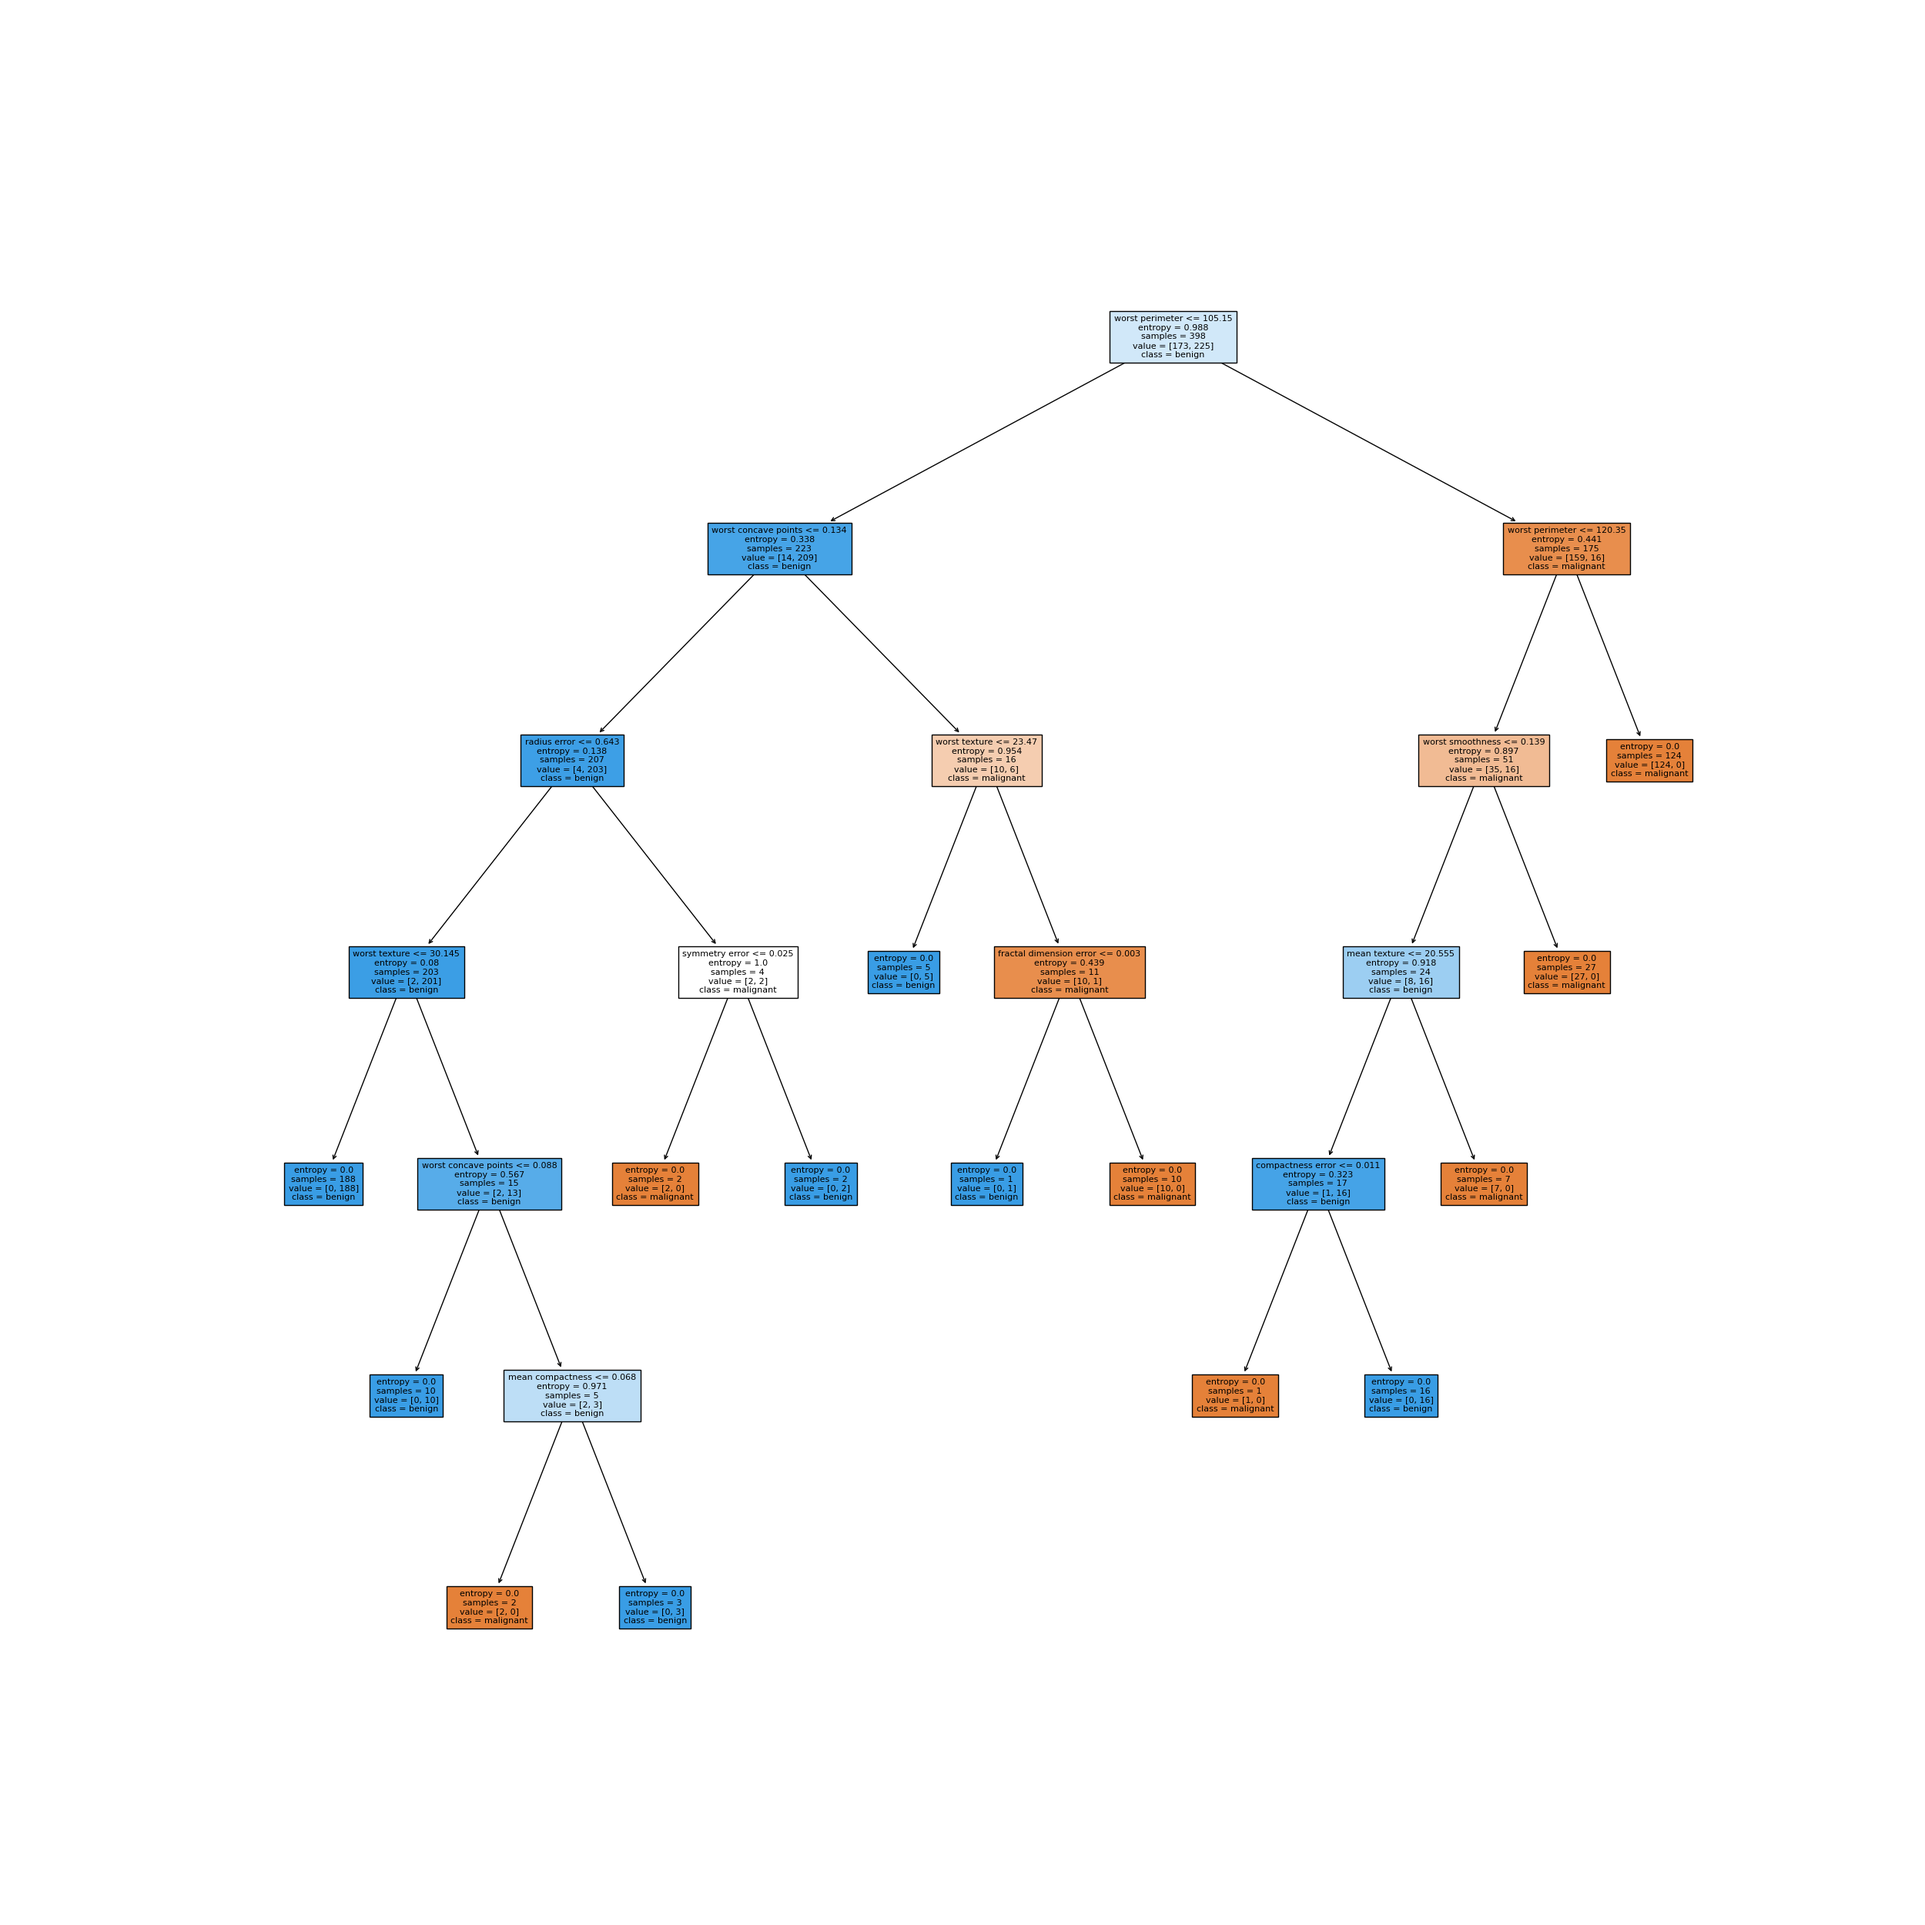
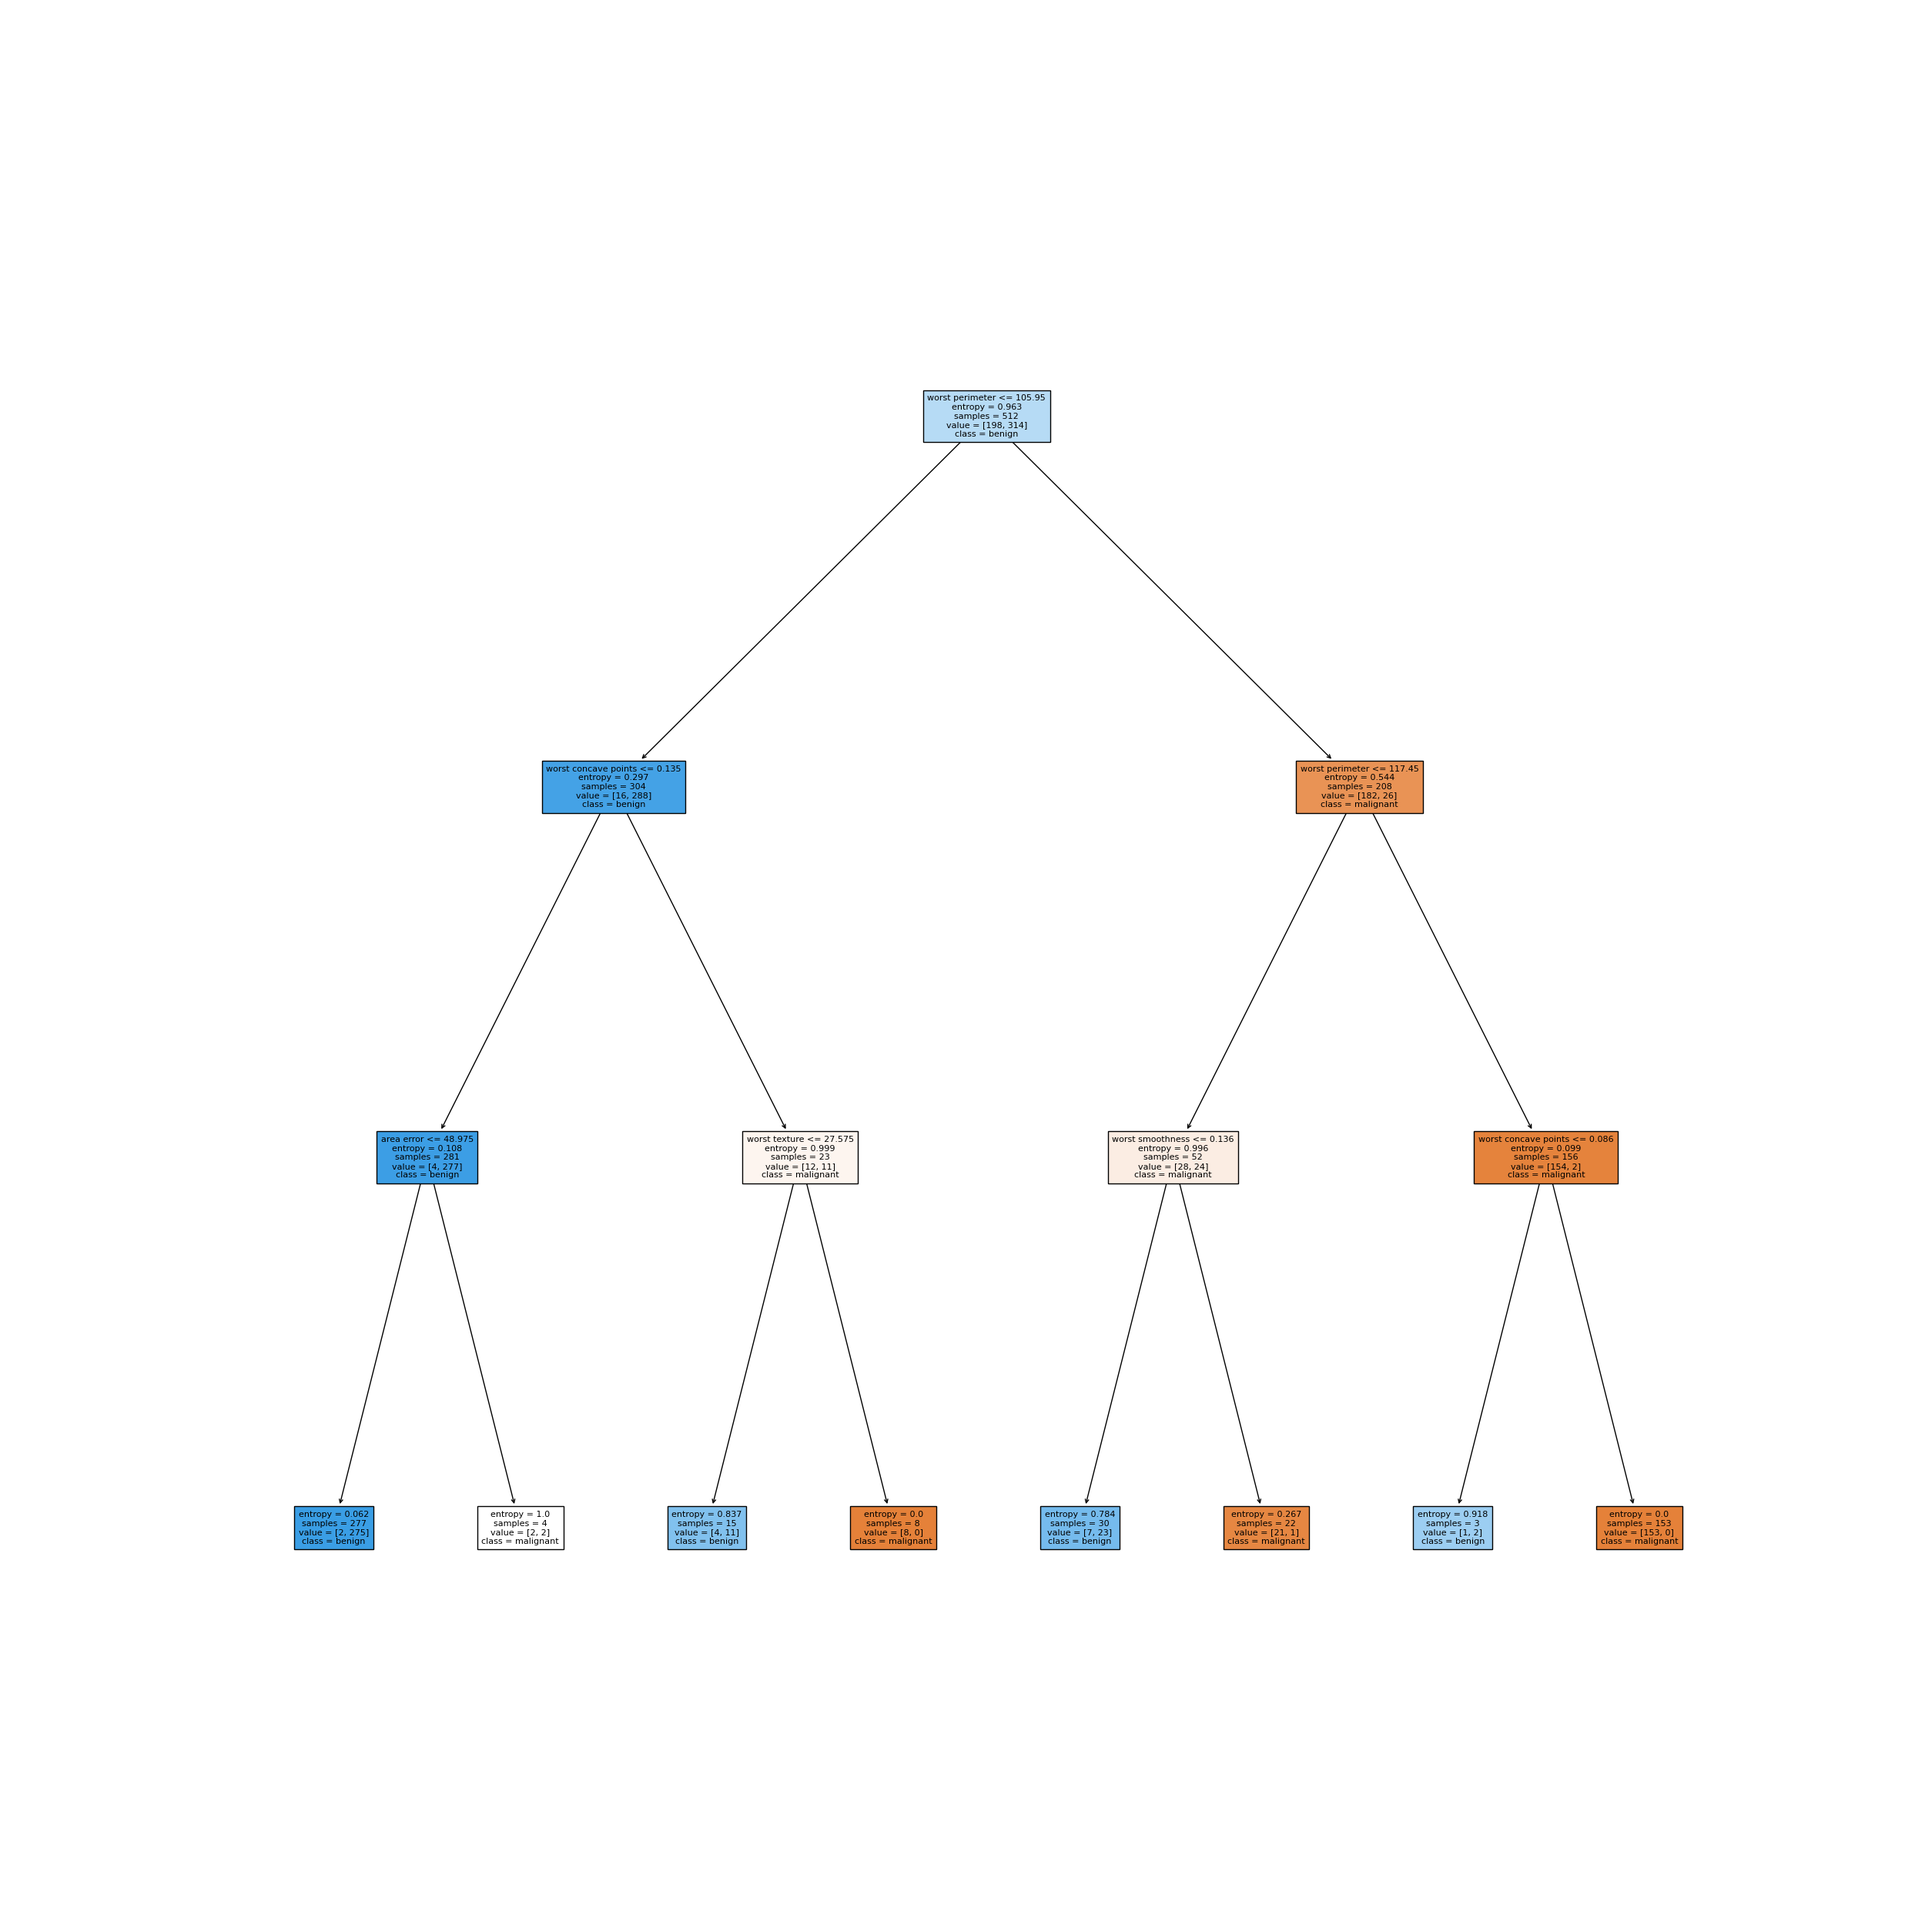
readme

diff --git a/sdasda.py b/sdasda.py
@@ -1,0 +1,120 @@
+import pandas as pd
+import numpy as np
+import matplotlib.pyplot as plt
+
+# MLP Classifier
+from sklearn.neural_network import MLPClassifier
+# Metrics
+
+from sklearn.metrics import accuracy_score
+from sklearn.metrics import precision_score
+from sklearn.metrics import recall_score
+from sklearn.metrics import f1_score
+
+# Confusion Matrix
+from sklearn.metrics import confusion_matrix, ConfusionMatrixDisplay, f1_score
+
+from sklearn.neural_network import MLPClassifier
+
+# TODO review
+from sklearn.model_selection import train_test_split
+
+from sklearn.preprocessing import LabelEncoder, StandardScaler
+
+import pickle
+import os.path
+
+
+def read_saved_classifier():
+    file_exists = os.path.exists(CLASSIFIER_FILE)
+
+    if not file_exists:
+        return None
+
+    with open(CLASSIFIER_FILE, 'rb') as fid:
+        return pickle.load(fid)
+
+
+def save_classifier(classifier):
+    with open(CLASSIFIER_FILE, 'wb') as fid:
+        pickle.dump(classifier, fid)
+
+    # arg: test_size: define a porcentagem dos dados totais do dataset que serão usados para teste
+
+
+#
+# ex.: com test_size: 0.2: 80% do dataset será usado para treinamento (x_train), e o restante (20%)
+# será reservado para ser usado no teste (x_test)
+#
+# x_train (dados para treino)
+# y_train (objetivos para treino)
+# x_test (dados para teste)
+# y_test (objetivos para teste)
+TEST_SIZE = 0.2
+
+CLASSIFIER_FILE = 'classifier.pkl'
+
+
+def read_dataset():
+    return pd.read_csv('csgo_round_snapshots.csv', delimiter=',')
+
+
+def preprocess_dataset(dataset):
+    # Precisamos usar o LabelEncoder para mapear a coluna 'map' para valores numéricos
+    # ex.: {'de_dust2' -> 01; 'de_mirage' -> 02; etc}
+    label_encoder = LabelEncoder()
+    label_encoder.fit(dataset['map'])
+    dataset['map'] = label_encoder.transform(dataset['map'])
+
+    # para definir x, precisamos  ler todas as colunas, menos a última
+    # pois a última coluna ('round_winner') armazena o resultado de cada rodada
+    x = dataset[dataset.columns[:-1]]
+
+    # TODO review
+    x = StandardScaler().fit_transform(x)
+
+    # resultado de qual time (CT ou TR) venceu a rodada
+    y = dataset['round_winner']
+
+    return x, y
+
+
+# essa função vai retornar um classifier treinado
+def run_training(x_train, y_train):
+    max_iter = x_train.shape[0]
+
+    mlp_classifier = MLPClassifier(max_iter=max_iter).fit(x_train, y_train)
+
+    return mlp_classifier
+
+
+
+def build_metrics(y_test, y_pred):
+    accuracy = accuracy_score(y_test, y_pred)
+    precision = precision_score(y_test, y_pred, average="weighted")
+    recall = recall_score(y_test, y_pred, average='binary')
+    f1 = f1_score(y_test, y_pred, average='binary')
+
+    tn, fp, fn, tp = confusion_matrix(y_test, y_pred).ravel()
+    specificity = tn / (tn + fp)
+
+    return (accuracy, precision, recall, specificity, f1)
+
+
+def print_metrics(metrics):
+    print('print_metrics')
+
+
+classifier = read_saved_classifier()
+
+# não existe classifier previamente treinado, portanto, executa a rotina de treino
+if classifier is None:
+    dataset = read_dataset()
+    x, y = preprocess_dataset(dataset)
+    x_train, x_test, y_train, y_test = train_test_split(x, y, test_size=TEST_SIZE)
+    classifier = run_training(x_train, y_train)
+    save_classifier(classifier)
+
+y_pred = classifier.predict(x_test)
+metrics = build_metrics(y_test, y_pred)
+print_metrics(metrics)

diff --git a/main.py b/main.py
@@ -4,7 +4,7 @@ from sklearn.tree import export_text
 
 from decision_tree import DecisionTree
 
-decision_tree = DecisionTree(criterion='entropy', max_depth=7, dataset=load_breast_cancer(), test_size=0.3)
+decision_tree = DecisionTree(criterion='entropy', max_depth=3, dataset=load_breast_cancer(), test_size=0.1)
 print(f'Features: {decision_tree.get_features()}')
 print(f'Target Names: {decision_tree.get_target_names()}')
 decision_tree.export_dataframe()

diff --git a/README.md b/README.md
@@ -24,6 +24,7 @@ As características são computadas através da imagem digitalizada da massa do 
 extremamente fina e representam as características dos núcleos celulares presentes na imagem.
 </p>
 <img width="300" src="https://encrypted-tbn0.gstatic.com/images?q=tbn:ANd9GcRnKoSZCrZOrRK-vdGQn_iZkWTdoSeQqCNE1eOF6VCXtNt-9Q-l3l4YUSNT93Aal7DdE0E&usqp=CAU">
+
 <img width="300" src="https://d3i71xaburhd42.cloudfront.net/50537a16eb18e2bc4971165258cba7a071f38cb7/2-Figure1-1.png">
 
 Estas características foram levantadas juntamente com médicos da área que até então consideraram as mesmas como
@@ -99,31 +100,42 @@ Dentre todas as classificações de classe Positivo que o modelo fez, quantas es
 
 Dentre todas as situações de classe Positivo como valor esperado, quantas estão corretas;
 
-### Valores
+### Parâmetros
 
-  <li>Profundidade da árvore: 77.4</li> 
-  <li>Tamanho dos dados de teste: 0.14</li> 
+  <li>Profundidade da árvore: 3</li> 
+  <li>Tamanho dos dados de teste: 0.1</li> 
   <li>Crtitério de divisão: Entropia</li> 
-  <br>
 
+Para os parâmetros acima, foram obtidos os seguintes resultados:
+
+#### Precisão: 0.98
+
+#### Recall: 1.0
+
+#### Acurácia 0.98
+
+#### F-1 score: 0.99
 
 ### Matriz de Confusao
+
 Calcula a quantidade de casos em que o modelo realmente acertou o resultado a partir de resultado já esperado.
+
 ![](confusion_matrix.png)
-Analisando a matriz constata-se que o modelo acertou 74 vezes comparando com o resultado esperado, e errou 6 vezes
 
-### Feature Importance (Importância das Características)
+Analisando a matriz constata-se que o modelo acertou 56 vezes comparando com o resultado esperado, e errou 1 vezes
+
+### Importância das Características
+
 ![](feature_importance.png)
+
 A partir dos treinamentos o modelo considerou por exemplo "Pior Raio" como a característica mais importante
-
-
 
 ![img_2.png](img_2.png)
 
-
-
 ### Representação da Árvore de Decisão
- A representação da árvore de decisão nessa imagem abaixo, não está totalmente completa, pois pelos limites da bilbioteca de plotagem grafica
+
+A representação da árvore de decisão nessa imagem abaixo, não está totalmente completa, pois pelos limites da bilbioteca
+de plotagem grafica
 ![](tree.png)
 Para sanar esse problema, as imagens abaixo mostram a árvore completa em formato de texto
 ![img_3.png](img_3.png)
@@ -160,7 +172,8 @@ implementação, siga o passo a passo a seguir:
 
 ![img_8.png](img_8.png)
 
-O programa exportará os gráficos na mesma pasta em que o arquivo main.py se encontra e imprimirá no console todas as saídas.
+O programa exportará os gráficos na mesma pasta em que o arquivo main.py se encontra e imprimirá no console todas as
+saídas.
 
 ## Vídeo
 
